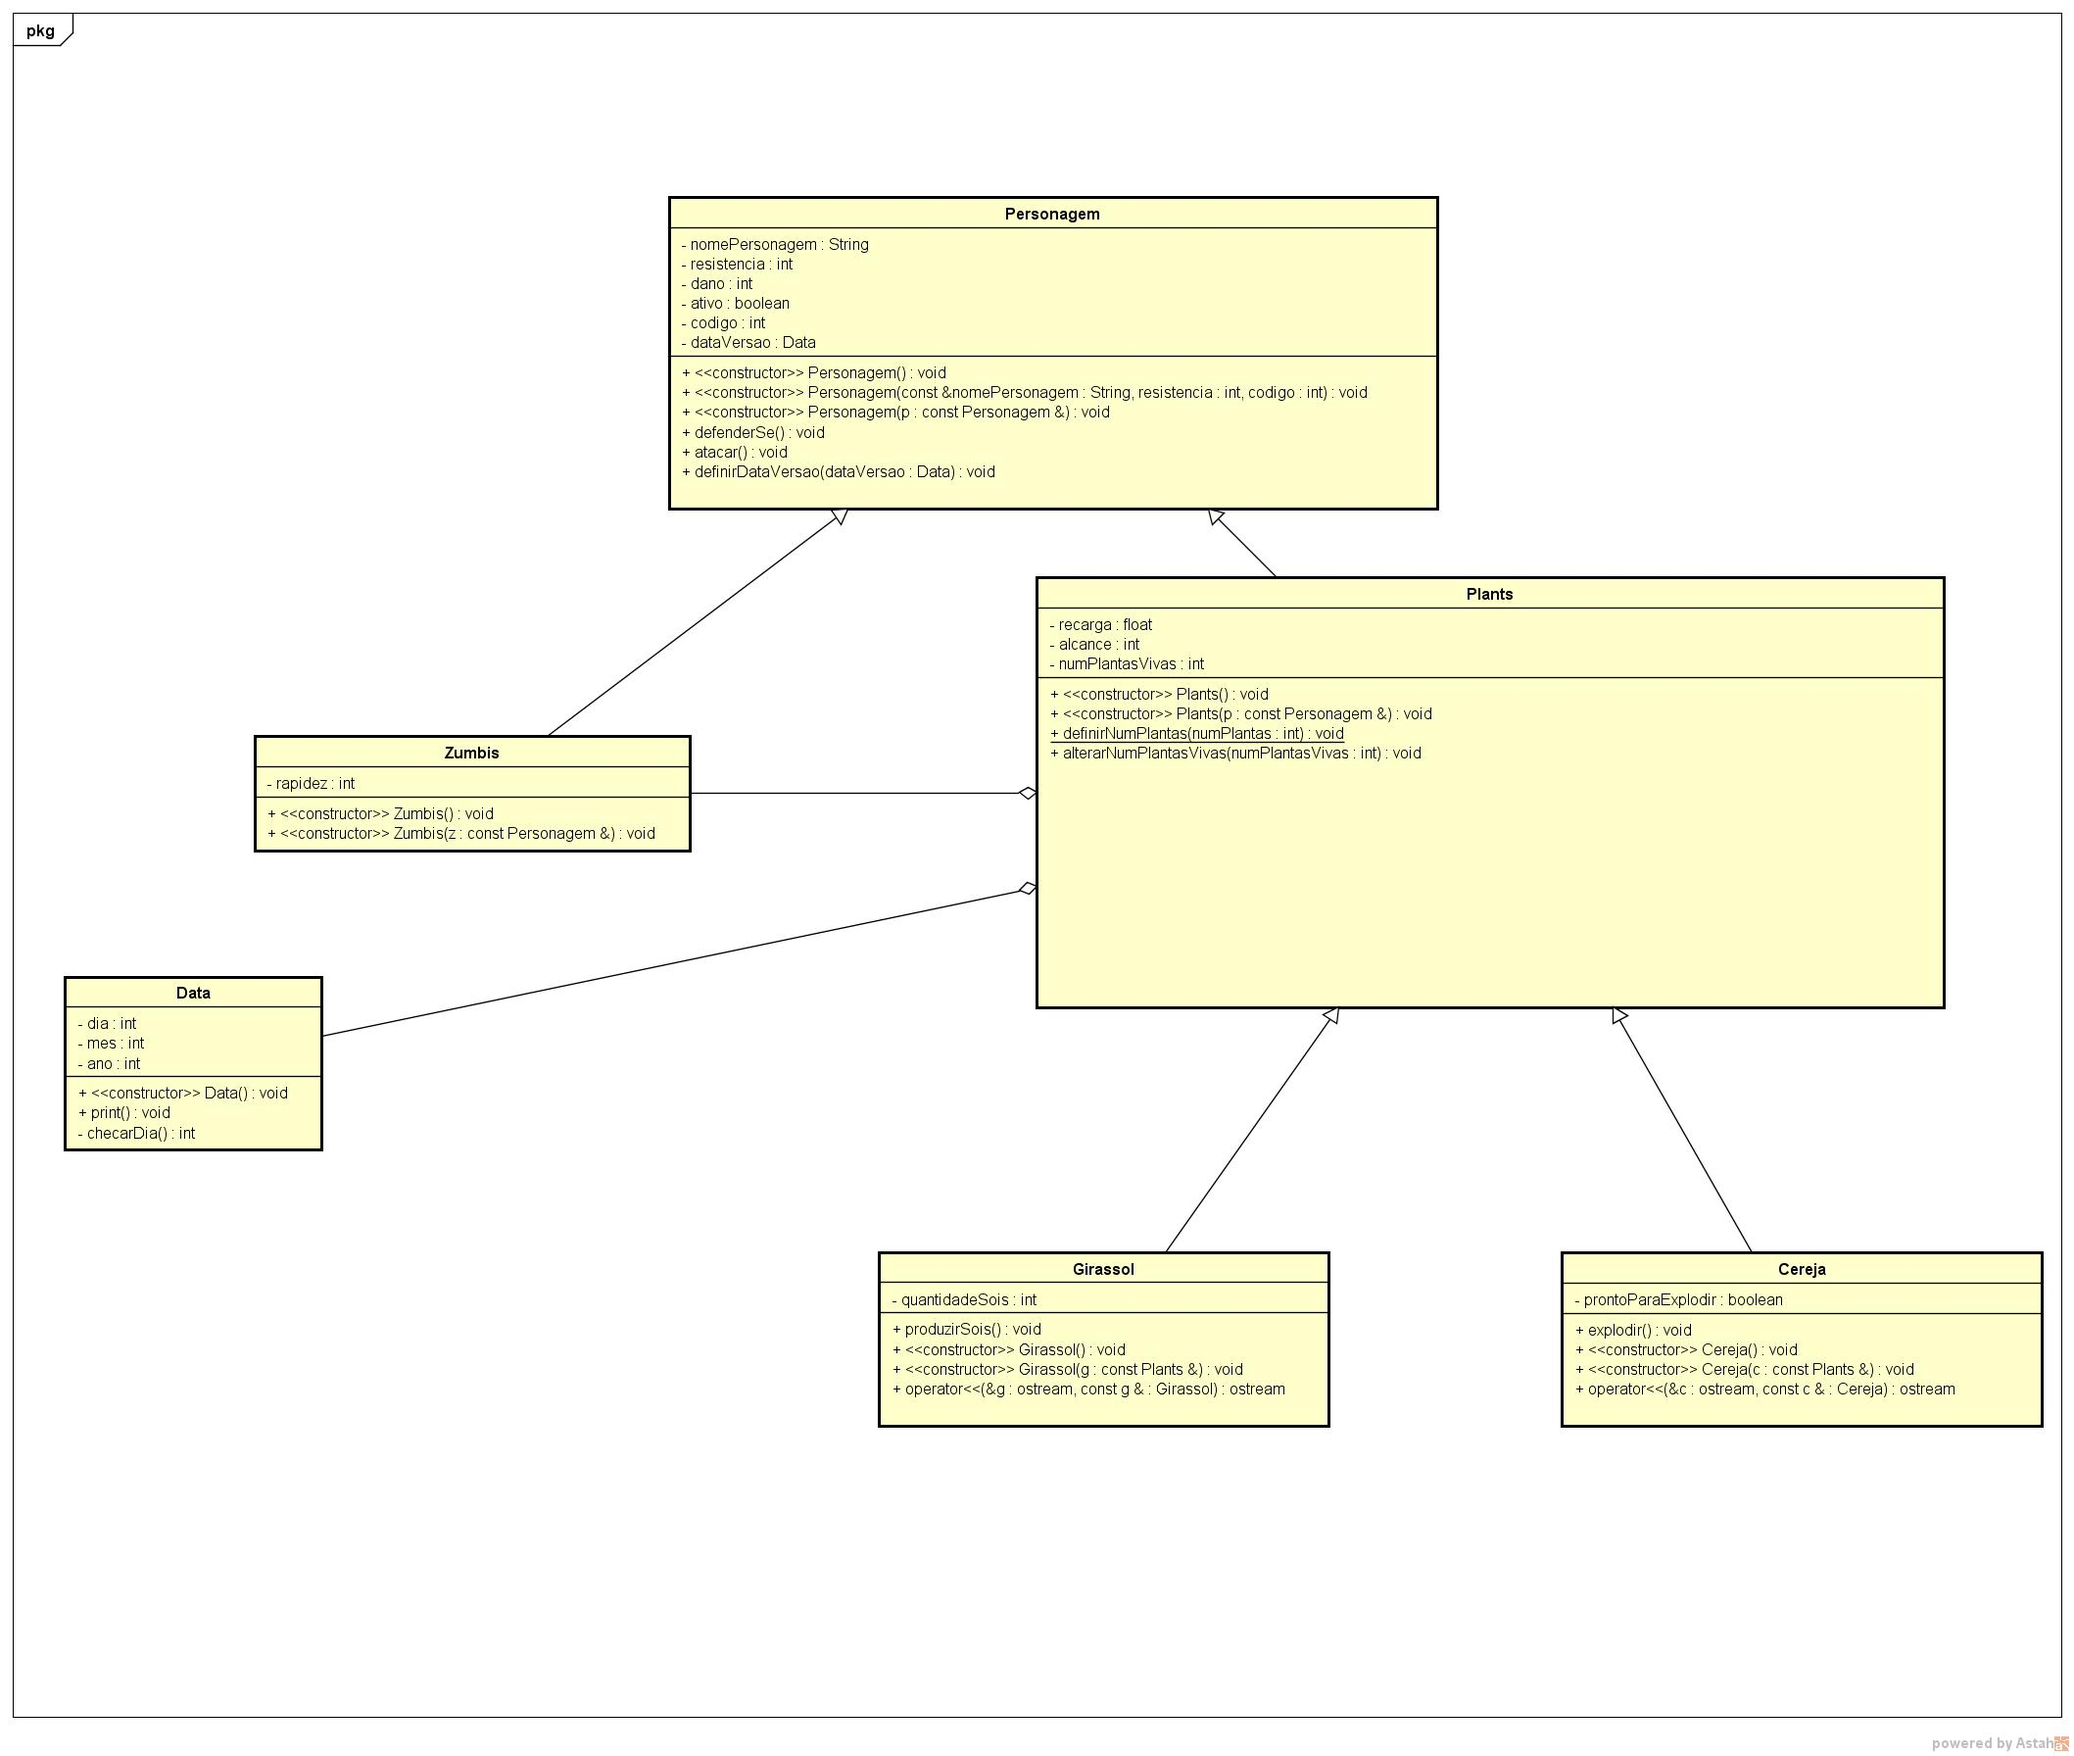
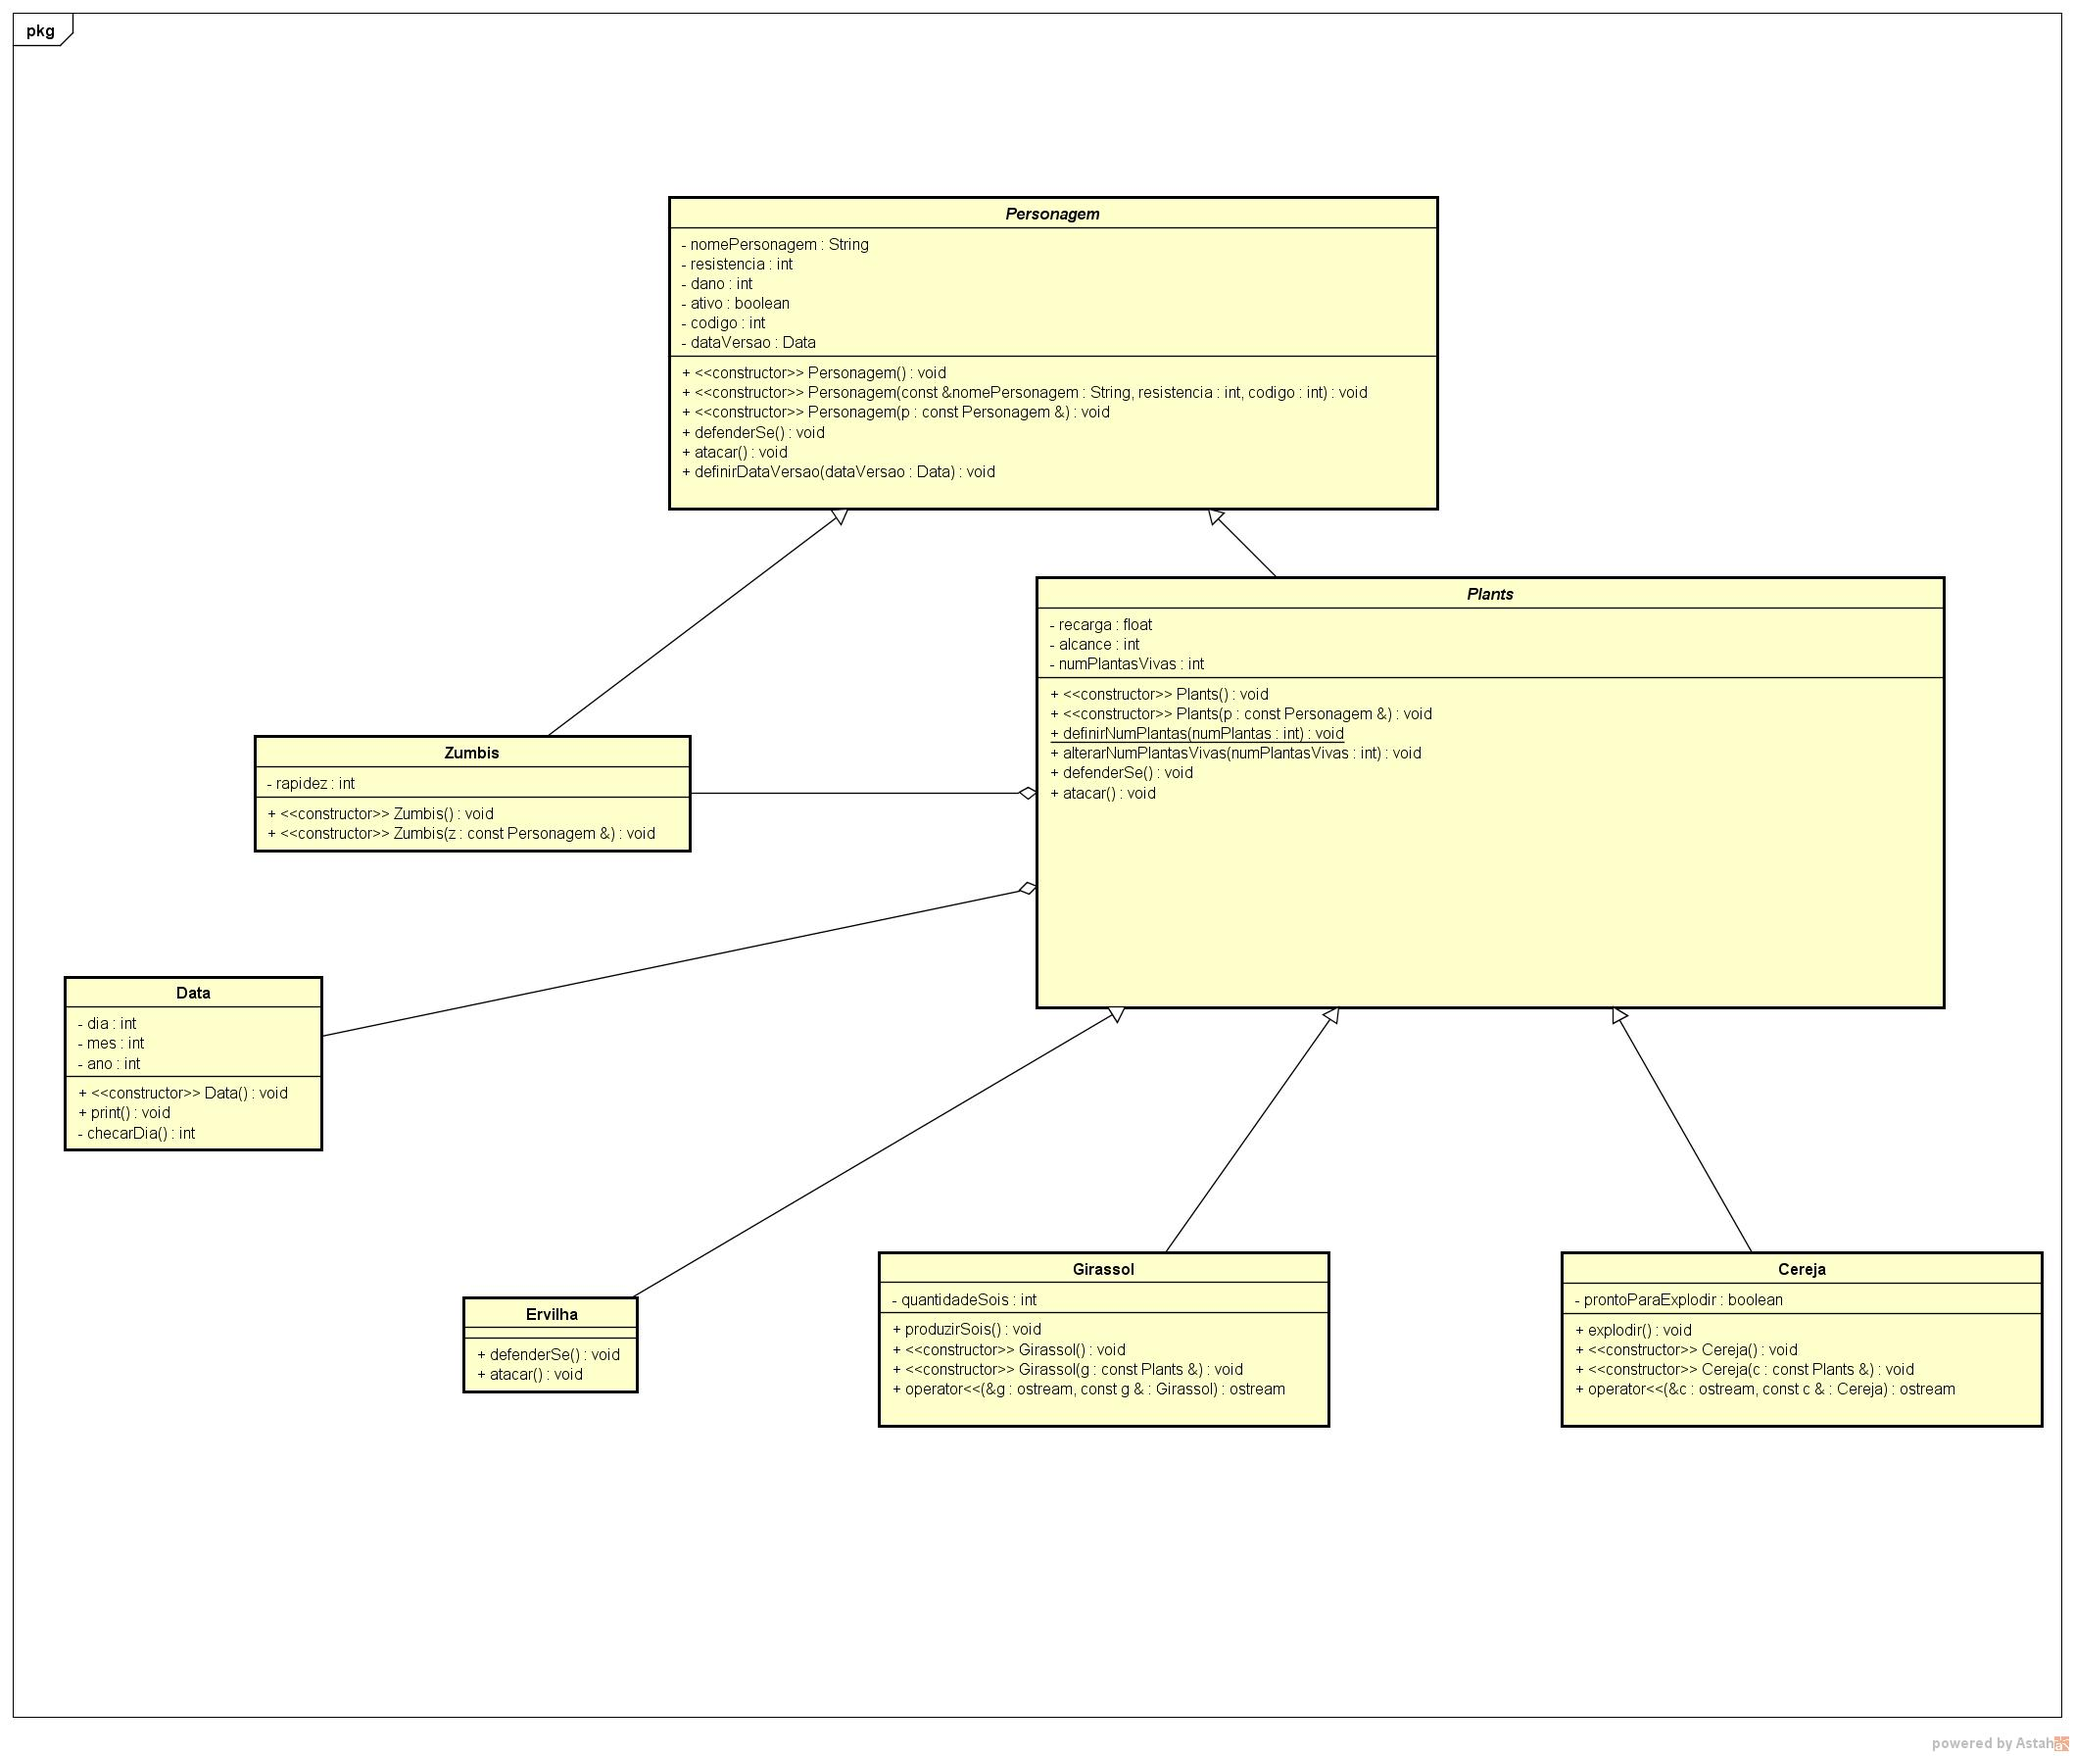
Polimorfismo Classe abstrata Personagem e Plants; Classe concreta Ervilha

Changed region(s): [[0.2182, 0.7188, 0.3118, 0.8125], [0.53, 0.4375, 0.5612, 0.4688]]

diff --git a/Personagem.cpp b/Personagem.cpp
@@ -9,16 +9,16 @@ Personagem::Personagem()
     codigo = 0;
 }
 
-Personagem::Personagem(const string &nomePersonagem, int resistencia, int dano, int codigo)
+/*Personagem::Personagem(const string &nomePersonagem, int resistencia, int dano, int codigo)
 {
     this->nomePersonagem = nomePersonagem;
     this->resistencia = resistencia;
     this->dano = dano;
     this->ativo = true;
     this->codigo = codigo;
-}
+}*/
 
-Personagem::Personagem(const Personagem &personagem)
+/*Personagem::Personagem(const Personagem &personagem)
 {
     this->nomePersonagem = personagem.nomePersonagem;
     this->resistencia = personagem.resistencia;
@@ -26,8 +26,8 @@ Personagem::Personagem(const Personagem &personagem)
     this->ativo = personagem.ativo;
     this->codigo = personagem.codigo;
 }
-
-Personagem::atacar(){
+*/
+/*Personagem::atacar(){
     if (ativo == true && resistencia > 0){
         resistencia = resistencia-dano;
         cout << "Nome do personagem atacado: " << nomePersonagem << endl;
@@ -41,8 +41,8 @@ Personagem::defenderSe(){
         cout << "Defeza realizada!" << endl;
     }
 }
-
-ostream &operator<<(ostream &output, const Personagem &personagem)
+*/
+/*ostream &operator<<(ostream &output, const Personagem &personagem)
 {
     output << "Nome Personagem: " << personagem.nomePersonagem << endl;
     output << "Resistencia: " << personagem.resistencia << endl;
@@ -51,8 +51,8 @@ ostream &operator<<(ostream &output, const Personagem &personagem)
     output << "Codigo: " << personagem.codigo << endl;
     return output;
 }
-
-const Personagem& Personagem::operator=(const Personagem &personagem)
+*/
+/*const Personagem& Personagem::operator=(const Personagem &personagem)
 {
     this->nomePersonagem =  personagem.nomePersonagem;
     this->resistencia = personagem.resistencia;
@@ -65,3 +65,4 @@ Personagem::~Personagem()
 {
 }
 
+*/

diff --git a/Personagem.h b/Personagem.h
@@ -10,16 +10,16 @@ using namespace std;
 
 class Personagem
 {
-    friend ostream & operator<<(ostream &, const Personagem &);
+//    friend ostream & operator<<(ostream &, const Personagem &);
 public:
     Personagem();
-    Personagem(const Personagem &);
-    Personagem(const string &, int, int, int);
+//    Personagem(const Personagem &);
+//    Personagem(const string &, int, int, int);
     ~Personagem();
-    const Personagem &operator=(const Personagem &);
-    void defenderSe();
-    void atacar();
-//    void definirDataVersao(Data);
+//    const Personagem &operator=(const Personagem &);
+    virtual void defenderSe() = 0;
+    virtual void atacar() = 0;
+//  virtual void definirDataVersao(Data);
         
 protected:
     string nomePersonagem;

diff --git a/Ervilha.h b/Ervilha.h
@@ -1,28 +1,21 @@
-#ifndef PLANTS_H
-#define PLANTS_H
-#include <iostream>
-#include <string>
-#include "Personagem.h"
+#ifndef ERVILHA_H
+#define ERVILHA_H
 
-using std::string;
-using std::cout;
-
-
-class Plants : public Personagem
+class Ervilha : public Plants
 {
 //    friend ostream &operator<<(ostream &,const Plants &);
 public:
 //    const Plants &operator=(const Plants &);
-    Plants();
+    Ervilha();
+    ~Ervilha();
 //    Plants(const Plants &);
 //    Plants(float, int, int);
-    ~Plants();
+
     virtual void defenderSe();
     virtual void atacar();
 
 private:
-    float recarga;
-    int alcance;
+    int qtErvilha;
 //  int numPlantasVivas;
 
     
@@ -33,5 +26,4 @@ private:
     
 };
 
-#endif // PLANTS_H
-
+#endif // ERVILHA_H

diff --git a/Plants.cpp b/Plants.cpp
@@ -10,7 +10,7 @@ Plants::Plants()
     numPlantasVivas = 0;
 }
 
-Plants::Plants(int recarga, int alcance, int numPlantasVivas){
+/*Plants::Plants(int recarga, int alcance, int numPlantasVivas){
     this->recarga = recarga;
     this->alcance = alcance;
     this->numPlantasVivas = numPlantasVivas;
@@ -35,13 +35,13 @@ const Plants & Plants::operator=(const Plants &plants)
     static_cast<Personagem> (*this) = static_cast<Personagem> (plants);
     this->codigo = plants.codigo;
 }
-
+*/
 Plants::~Plants()
 {
 }
  
 
-void Plants::definirNumPlantas(int numPlantas)
+/*void Plants::definirNumPlantas(int numPlantas)
 {
     do 
     {
@@ -49,3 +49,5 @@ void Plants::definirNumPlantas(int numPlantas)
     }
     while(desbloqueado);
 }
+*/
+

diff --git a/main.cpp b/main.cpp
@@ -1,19 +1,14 @@
 #include <stdio.h>
 #include <iostream>
+#include "Ervilha.h"
 using std::cout;
 using std::cin;
 
 
-#include "Plants.h"
+
 int main(int argc, char **argv)
 {
-    Plants planta1("Girassol", 100, 100, 50, 30);
-    
-    cout<<"Jogo Iniciado!\n";
-    
-    planta1.atacarZumbis();
-    planta1.receberAtaque();
-    
+    cout << "Disparando Ervilha";
     
     return 0;
 }

diff --git a/Ervilha.cpp b/Ervilha.cpp
@@ -1,0 +1,21 @@
+#include "Ervilha.h"
+
+Ervilha::Ervilha()
+{
+    
+}
+
+    Ervilha::defenderSe(){
+        
+    }
+    
+    Ervilha::atacar(){
+        qtErvilha = 2;
+        cout << "Quantidade de ervilha: ", qtErvilha;
+    }
+
+
+Ervilha::~Ervilha()
+{
+}
+
